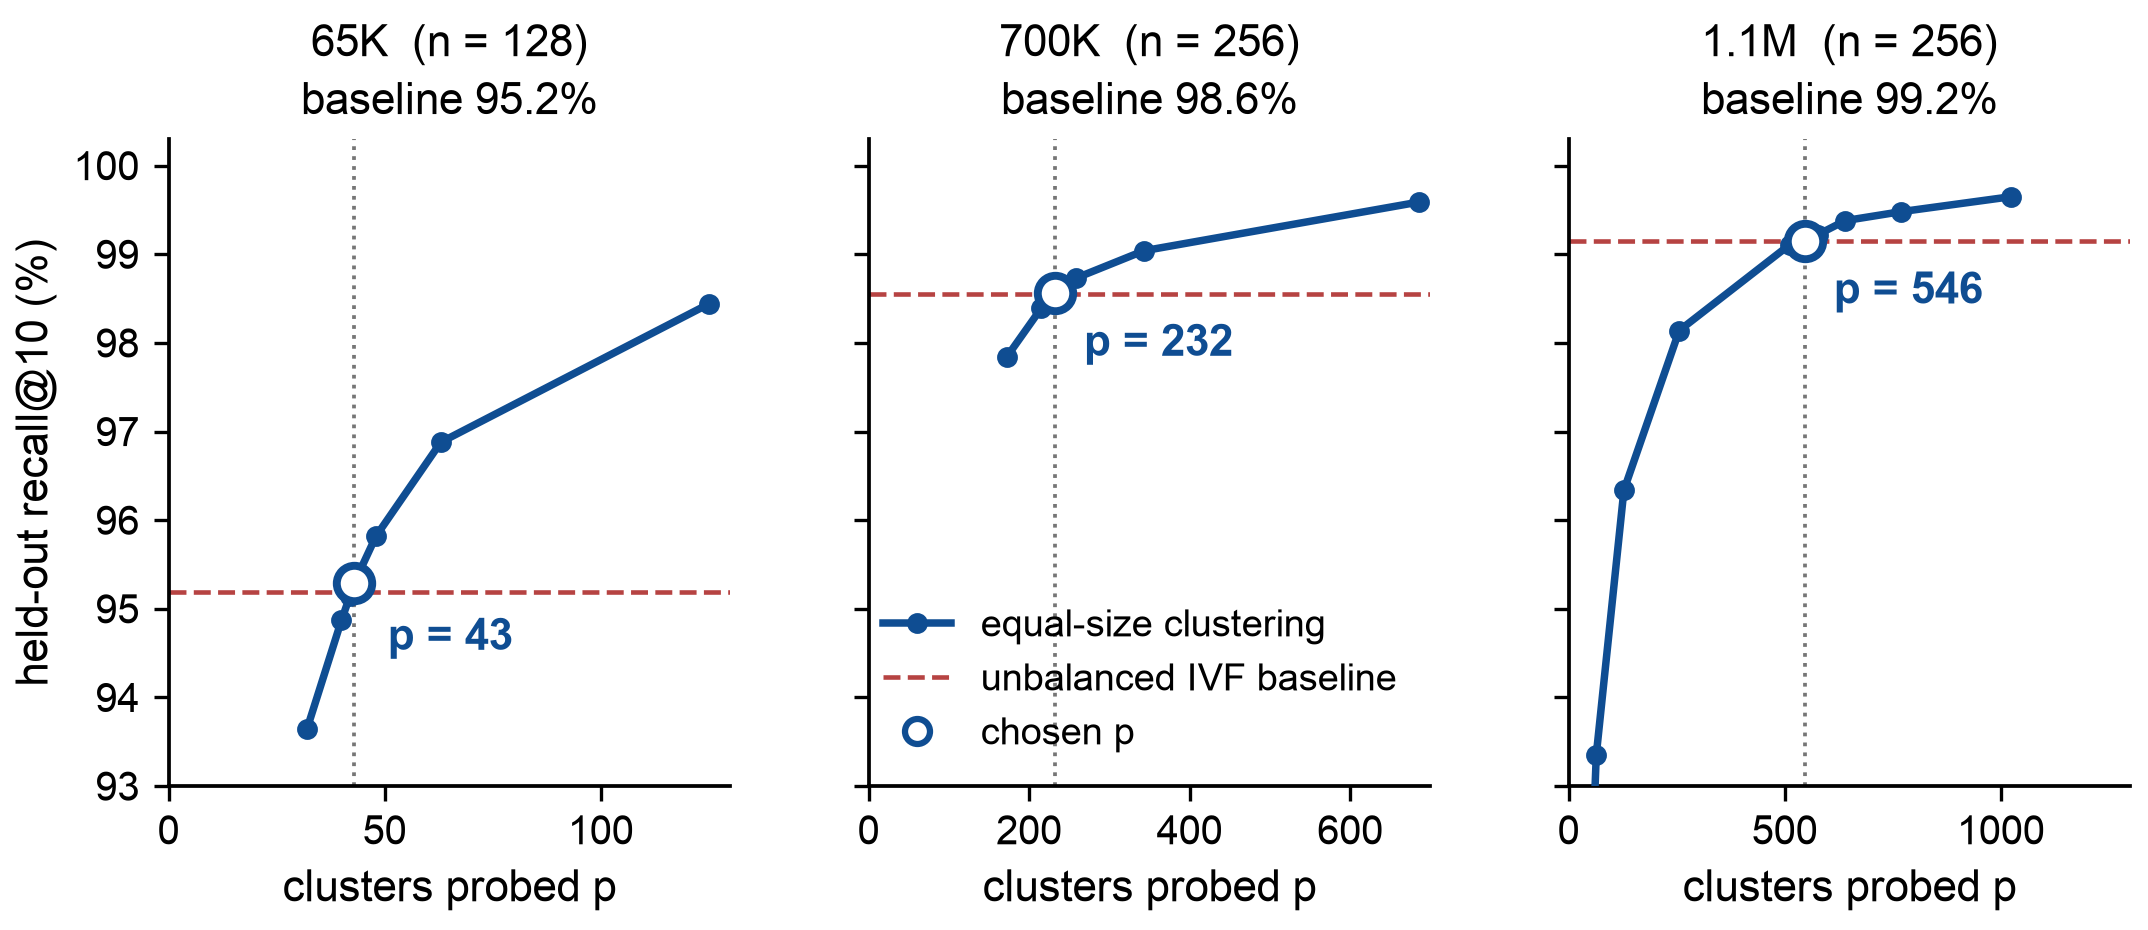
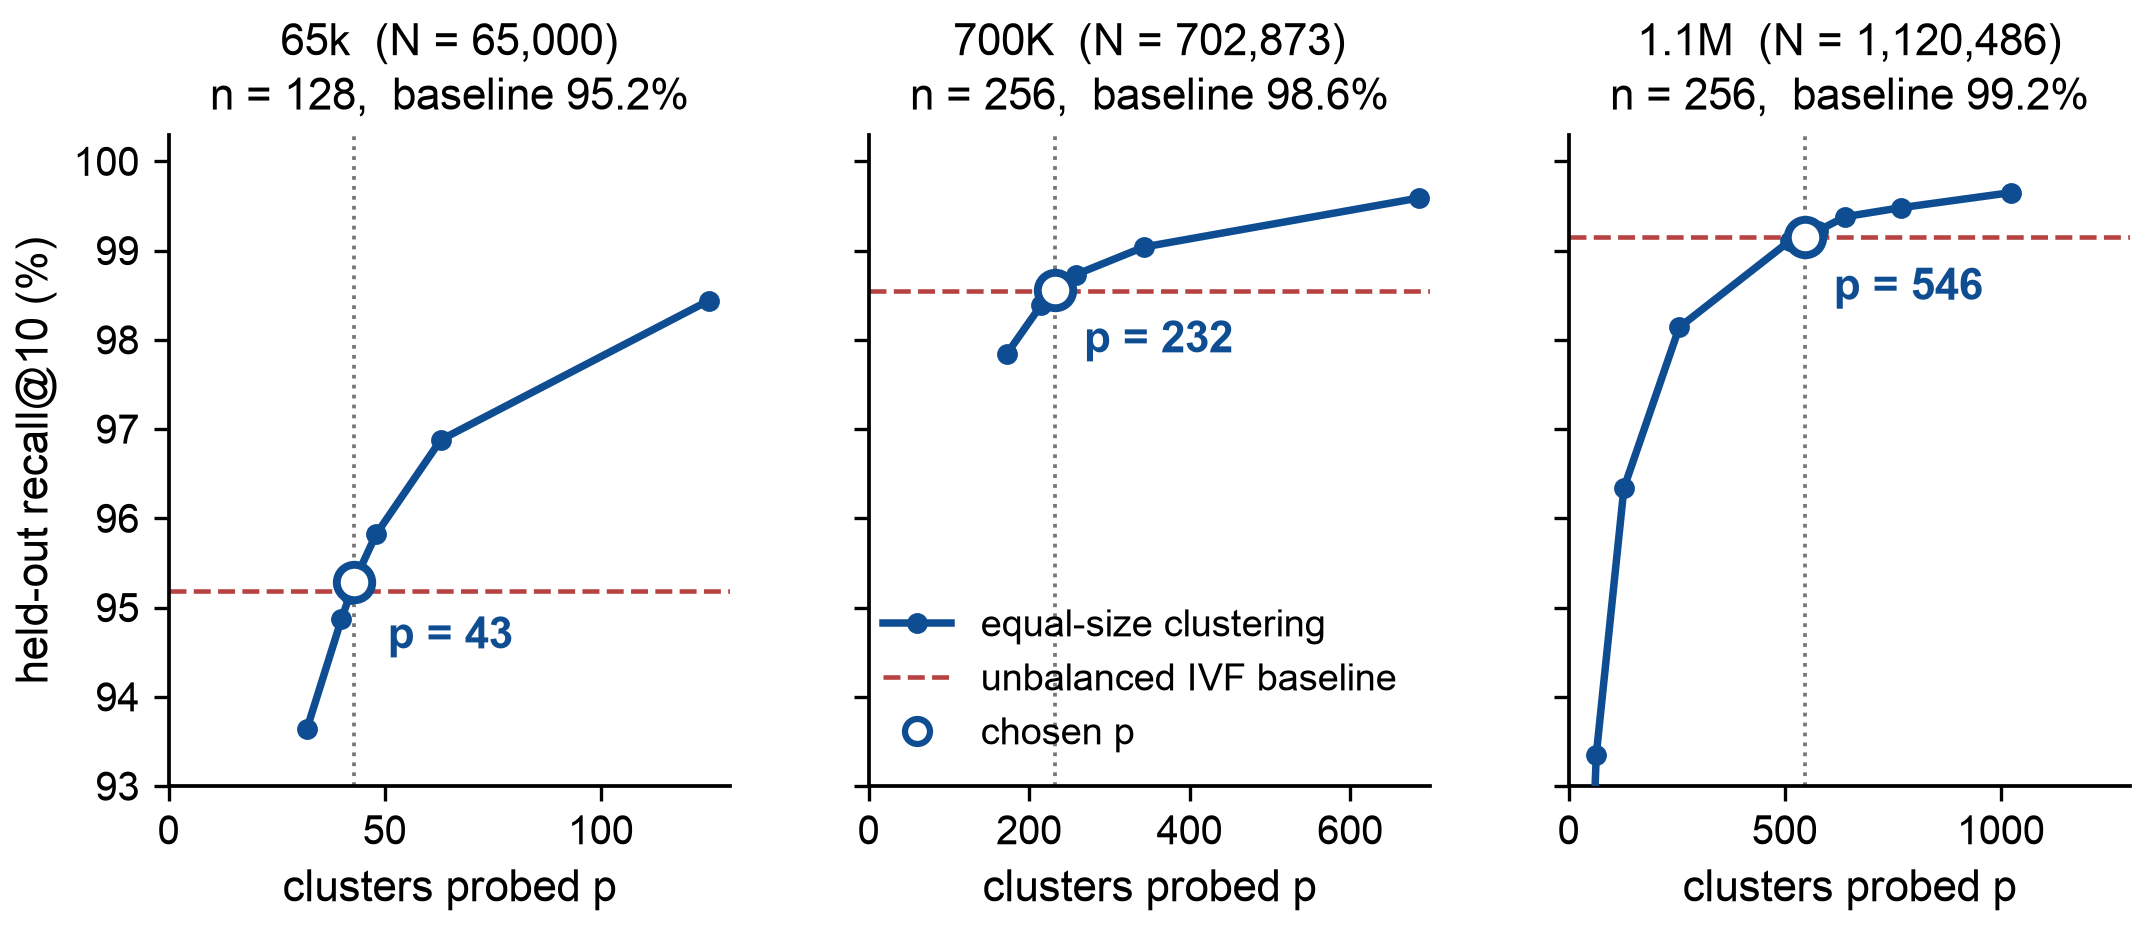
Probe-selection figure: panel names and sizes match the paper (65k / 700K / 1.1M)

diff --git a/figures/make_probe_selection.py b/figures/make_probe_selection.py
@@ -24,9 +24,10 @@ plt.rcParams.update({
 BLUE, GRAY, RED = "#0F4D92", "#767676", "#B64342"
 
 # (panel name as used in the paper, sweep file, cluster width n, chosen p, x-range, label offset)
-# "700K" / "1.1M" are the real vector counts of the HF top-1M / top-10M indices.
+# Names and sizes as in the paper: 65k / 700K / 1.1M are the HF top-100k / top-1M / top-10M indices.
+N_DB = {"65k": "65,000", "700K": "702,873", "1.1M": "1,120,486"}
 CFG = [
-    ("65K", "wiki-rag/cluster_size_sweep/cluster_size_sweep.json", 128, 43, (0, 130), (8, -16)),
+    ("65k", "wiki-rag/cluster_size_sweep/cluster_size_sweep.json", 128, 43, (0, 130), (8, -16)),
     ("700K", "wiki-rag/cluster_size_sweep_1M/cluster_size_sweep.json", 256, 232, (0, 700), (7, -15)),
     ("1.1M", "wiki-rag/cluster_size_sweep_10M/cluster_size_sweep.json", 256, 546, (0, 1300), (7, -15)),
 ]
@@ -45,7 +46,7 @@ for ax, (name, path, n, p_sel, xlim, offset) in zip(axes, CFG):
     ax.plot([p_sel], [y], "o", ms=8.5, mfc="white", mec=BLUE, mew=1.9, zorder=4)
     ax.annotate(f"p = {p_sel}", (p_sel, y), textcoords="offset points", xytext=offset,
                 fontsize=10.5, color=BLUE, fontweight="bold")
-    ax.set_title(f"{name}  (n = {n})\nbaseline {target:.1f}%", fontsize=10.5, linespacing=1.3)
+    ax.set_title(f"{name}  (N = {N_DB[name]})\nn = {n},  baseline {target:.1f}%", fontsize=10.5, linespacing=1.3)
     ax.set_xlim(*xlim)
     ax.set_ylim(93, 100.3)
     ax.set_xlabel("clusters probed p")
